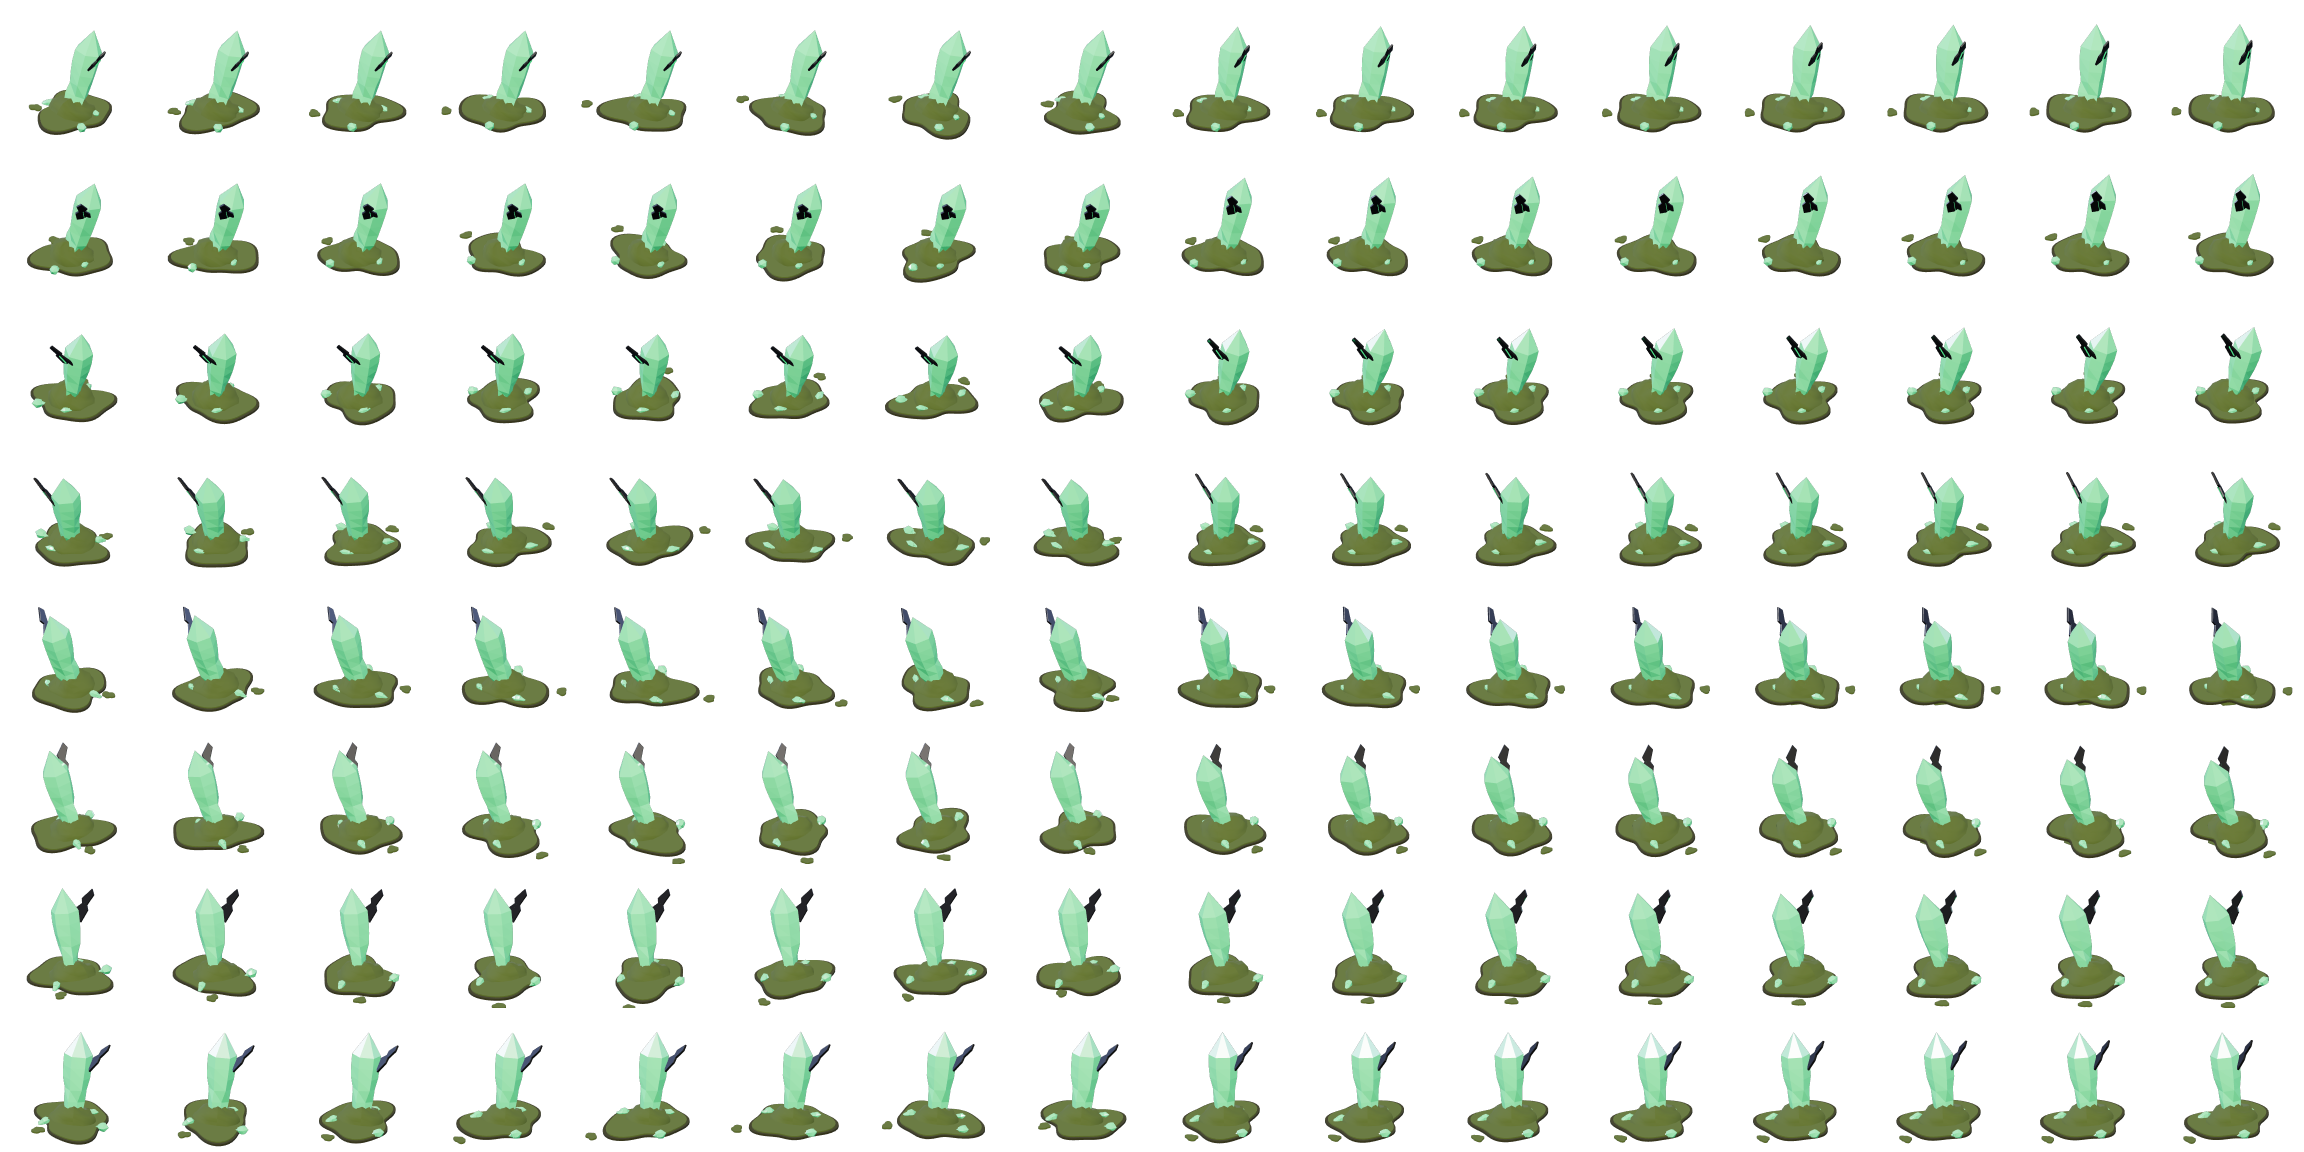
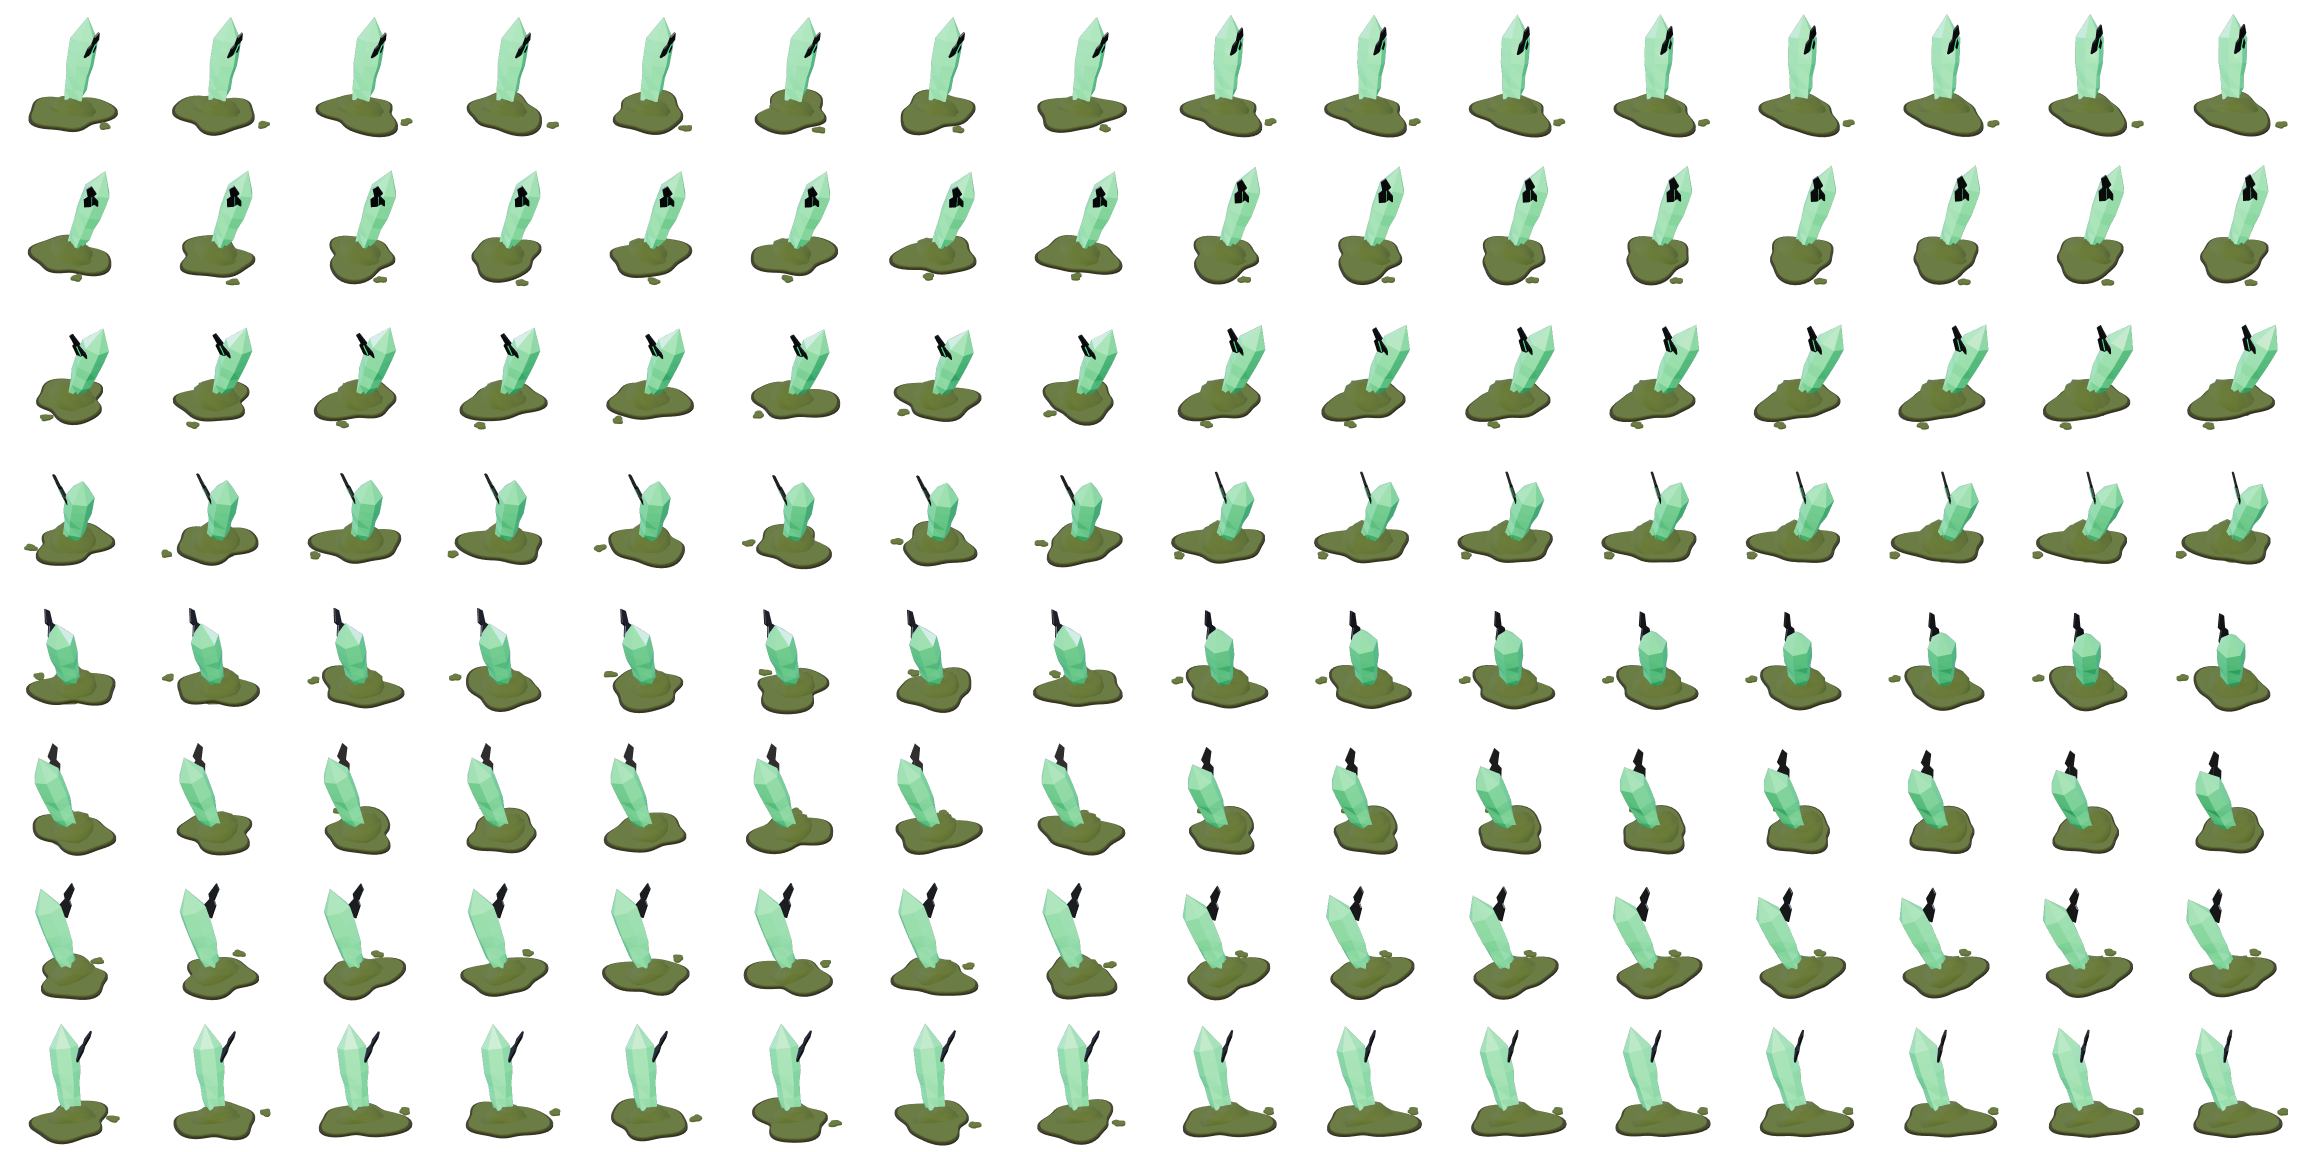
Rotshard: use design No. 101 (the gentler lean) instead of No. 103
Re-baked the sheet from FORMS2[101] (pool radius 0.8 for the sprite's footprint); core anchor updated.
Build 2026-10-14n.

Claude-Session: https://claude.ai/code/session_0115DZYYhipQqSk6LHvQcEfz

diff --git a/game.html b/game.html
@@ -1363,12 +1363,12 @@ function _showError(msg) {
 // Script files that failed to download. A missing file raises no error of its
 // own — only the "Can't find variable" from whatever needed it — so the load
 // failure is caught here, on its way down (capture phase).
-// THE BUILD. Every script URL below carries ?v=2026-10-14m, so a new deploy
+// THE BUILD. Every script URL below carries ?v=2026-10-14n, so a new deploy
 // fetches a matching set: REPORTED, an iPad ran the new js/indexart.js against
 // an old cached js/config.js ("Attempted to assign to readonly property").
 // Change this, the ?v= on every script tag and BUILD_VERSION in js/config.js
 // together (tests/boot.js checks they agree).
-window.__PAGE_BUILD = "2026-10-14m";
+window.__PAGE_BUILD = "2026-10-14n";
 window.__bootFailed = [];
 window.addEventListener("error", function (e) {
     var t = e && e.target;
@@ -1404,53 +1404,53 @@ if (!CanvasRenderingContext2D.prototype.roundRect) {
 </script>
 
 <!-- Game scripts — load order matters (globals first, logic last) -->
-<script src="js/config.js?v=2026-10-14m"></script>
-<script src="js/icons.js?v=2026-10-14m"></script>
-<script src="js/rng.js?v=2026-10-14m"></script>
-<script src="js/traits.js?v=2026-10-14m"></script>
-<script src="js/elements.js?v=2026-10-14m"></script>
-<script src="js/combat.js?v=2026-10-14m"></script>
-<script src="js/species.js?v=2026-10-14m"></script>
-<script src="js/levels.js?v=2026-10-14m"></script>
-<script src="js/predator_randomizer.js?v=2026-10-14m"></script>
-<script src="js/mass.js?v=2026-10-14m"></script>
-<script src="js/infest.js?v=2026-10-14m"></script>
-<script src="js/power.js?v=2026-10-14m"></script>
-<script src="js/save.js?v=2026-10-14m"></script>
-<script src="js/camp.js?v=2026-10-14m"></script>
-<script src="js/wavedata.js?v=2026-10-14m"></script>
-<script src="js/helpers.js?v=2026-10-14m"></script>
-<script src="js/predator.js?v=2026-10-14m"></script>
-<script src="js/abilities.js?v=2026-10-14m"></script>
-<script src="js/world.js?v=2026-10-14m"></script>
-<script src="js/commands.js?v=2026-10-14m"></script>
-<script src="js/npc.js?v=2026-10-14m"></script>
-<script src="js/codex.js?v=2026-10-14m"></script>
-<script src="js/draw.js?v=2026-10-14m"></script>
-<script src="js/beetle3d.js?v=2026-10-14m"></script>
-<script src="js/bugs3d.js?v=2026-10-14m"></script>
-<script src="js/ui.js?v=2026-10-14m"></script>
-<script src="js/waves.js?v=2026-10-14m"></script>
-<script src="js/drops.js?v=2026-10-14m"></script>
-<script src="js/clone.js?v=2026-10-14m"></script>
-<script src="js/clonework.js?v=2026-10-14m"></script>
-<script src="js/broods.js?v=2026-10-14m"></script>
-<script src="js/raids.js?v=2026-10-14m"></script>
-<script src="js/ultra.js?v=2026-10-14m"></script>
-<script src="js/formations.js?v=2026-10-14m"></script>
-<script src="js/breakout.js?v=2026-10-14m"></script>
-<script src="js/nightraids.js?v=2026-10-14m"></script>
-<script src="js/bonds.js?v=2026-10-14m"></script>
-<script src="js/autoplay.js?v=2026-10-14m"></script>
-<script src="js/indexart.js?v=2026-10-14m"></script>
-<script src="js/modules.js?v=2026-10-14m"></script>
-<script src="js/shieldcells.js?v=2026-10-14m"></script>
-<script src="js/evolution.js?v=2026-10-14m"></script>
-<script src="js/buildmenu.js?v=2026-10-14m"></script>
-<script src="js/input.js?v=2026-10-14m"></script>
-<script src="js/game.js?v=2026-10-14m"></script>
-<script src="js/tutorial.js?v=2026-10-14m"></script>
-<script src="js/dev.js?v=2026-10-14m"></script>
+<script src="js/config.js?v=2026-10-14n"></script>
+<script src="js/icons.js?v=2026-10-14n"></script>
+<script src="js/rng.js?v=2026-10-14n"></script>
+<script src="js/traits.js?v=2026-10-14n"></script>
+<script src="js/elements.js?v=2026-10-14n"></script>
+<script src="js/combat.js?v=2026-10-14n"></script>
+<script src="js/species.js?v=2026-10-14n"></script>
+<script src="js/levels.js?v=2026-10-14n"></script>
+<script src="js/predator_randomizer.js?v=2026-10-14n"></script>
+<script src="js/mass.js?v=2026-10-14n"></script>
+<script src="js/infest.js?v=2026-10-14n"></script>
+<script src="js/power.js?v=2026-10-14n"></script>
+<script src="js/save.js?v=2026-10-14n"></script>
+<script src="js/camp.js?v=2026-10-14n"></script>
+<script src="js/wavedata.js?v=2026-10-14n"></script>
+<script src="js/helpers.js?v=2026-10-14n"></script>
+<script src="js/predator.js?v=2026-10-14n"></script>
+<script src="js/abilities.js?v=2026-10-14n"></script>
+<script src="js/world.js?v=2026-10-14n"></script>
+<script src="js/commands.js?v=2026-10-14n"></script>
+<script src="js/npc.js?v=2026-10-14n"></script>
+<script src="js/codex.js?v=2026-10-14n"></script>
+<script src="js/draw.js?v=2026-10-14n"></script>
+<script src="js/beetle3d.js?v=2026-10-14n"></script>
+<script src="js/bugs3d.js?v=2026-10-14n"></script>
+<script src="js/ui.js?v=2026-10-14n"></script>
+<script src="js/waves.js?v=2026-10-14n"></script>
+<script src="js/drops.js?v=2026-10-14n"></script>
+<script src="js/clone.js?v=2026-10-14n"></script>
+<script src="js/clonework.js?v=2026-10-14n"></script>
+<script src="js/broods.js?v=2026-10-14n"></script>
+<script src="js/raids.js?v=2026-10-14n"></script>
+<script src="js/ultra.js?v=2026-10-14n"></script>
+<script src="js/formations.js?v=2026-10-14n"></script>
+<script src="js/breakout.js?v=2026-10-14n"></script>
+<script src="js/nightraids.js?v=2026-10-14n"></script>
+<script src="js/bonds.js?v=2026-10-14n"></script>
+<script src="js/autoplay.js?v=2026-10-14n"></script>
+<script src="js/indexart.js?v=2026-10-14n"></script>
+<script src="js/modules.js?v=2026-10-14n"></script>
+<script src="js/shieldcells.js?v=2026-10-14n"></script>
+<script src="js/evolution.js?v=2026-10-14n"></script>
+<script src="js/buildmenu.js?v=2026-10-14n"></script>
+<script src="js/input.js?v=2026-10-14n"></script>
+<script src="js/game.js?v=2026-10-14n"></script>
+<script src="js/tutorial.js?v=2026-10-14n"></script>
+<script src="js/dev.js?v=2026-10-14n"></script>
 <script>
 // ── BOOT CHECK ────────────────────────────────────────────
 // Every file above must have arrived and run before init.js starts the game.
@@ -1503,7 +1503,7 @@ if (!CanvasRenderingContext2D.prototype.roundRect) {
     document.body.appendChild(d);
 })();
 </script>
-<script src="js/init.js?v=2026-10-14m"></script>
+<script src="js/init.js?v=2026-10-14n"></script>
 
 </body>
 </html>

diff --git a/js/evolution.js b/js/evolution.js
@@ -49,7 +49,7 @@
 //          SIX rounds at once from the six crystals of its ring, one at each of
 //          the nearest enemies in turn (all six into one if it is alone), each
 //          HALO_MULT × its power and setting its target burning.
-//          ROTSHARD (the TOXIC SNIPER, design No. 103, the crystal half eaten by its pool),
+//          ROTSHARD (the TOXIC SNIPER, design No. 101, the crystal half eaten by its pool),
 //          CORRODE SHOT: with an enemy within ROT_RANGE, every ROT_EVERY frames it
 //          fires one long shot (ROT_MULT × its power) that eats the target's armour
 //          (it takes 1 / ROT_SHRED × damage for ROT_SHRED_FRAMES) and splashes
@@ -90,7 +90,7 @@ const EVOLUTIONS = {
               cell: 144, anchor: [72, 114.2], core: [72, 53.7], noGlow: true, color: "#ff5a1f" },
     // The TOXIC SNIPER: a crystal tilted in a pool that is eating it. The pool shifts, so its sheet carries its own light.
     rotshard:{ id: "rotshard", name: "ROTSHARD", element: "toxic", role: "sniper", move: "CORRODE SHOT", sheet: "img/evo/rotshard.png",
-              cell: 144, anchor: [72, 114.2], core: [72, 70.9], noGlow: true, color: "#66ff66" },
+              cell: 144, anchor: [72, 114.2], core: [72, 68.3], noGlow: true, color: "#66ff66" },
     // The electric WORKER (the neutraliser): a worker is a duty, so it comes from an electric follower on worker duty.
     pod:    { id: "pod",    name: "DYNAMO POD",   element: "electric", duty: "worker",  move: "RAPID DISCHARGE", sheet: "img/evo/pod.png",
               cell: 144, anchor: [72, 114.2], core: [72, 58], noGlow: true, color: "#ffee33" },

diff --git a/design/evolutions/forms5.js b/design/evolutions/forms5.js
@@ -168,6 +168,6 @@ function _eatenDesign(opts) {
   return { g, core: opts.h * 0.7 + 0.2, update(t, act) { pool.shift(t); piv.rotation.z = opts.tz + 0.02 * Math.sin(1.6 * t); piv.rotation.x = opts.tx - 0.22 * (act || 0); mound.scale.setScalar(1 + 0.04 * Math.sin(1.6 * t + 1) + 0.12 * (act || 0));   // when it fires it recoils and the pool surges
     bits.forEach((c, i) => { const a = i * 2.4 + 0.6 + 0.4 * Math.sin(1.6 * t + i), d = (0.7 + 0.15 * i) * R; c.position.set(Math.sin(a) * d, 0.1, Math.cos(a) * d); c.rotation.set(1.1 + i * 0.3, a, 0.5); }); } };
 }
-fx(101, "Eaten crystal, leaning.", () => _eatenDesign({ seed: 2.0, h: 1.5, up: 0.25, reach: 0.5, tx: -0.12, tz: -0.35 }));
+fx(101, "Eaten crystal, leaning.", () => _eatenDesign({ seed: 2.0, h: 1.5, up: 0.25, reach: 0.5, tx: -0.12, tz: -0.35, R: 0.8 }));
 fx(102, "Eaten crystal, toppling.", () => _eatenDesign({ seed: 1.1, h: 1.6, up: 0.1, reach: 0.9, tx: -0.25, tz: -0.65 }));
 fx(103, "Eaten crystal, shedding bits.", () => _eatenDesign({ seed: 3.3, h: 1.4, up: 0.2, reach: 0.7, tx: 0.1, tz: -0.25, bits: 3, R: 0.8 }));

diff --git a/tests/evolution.js b/tests/evolution.js
@@ -73,7 +73,7 @@ function same(a, b, m) { if (a !== b) throw new Error(`${m}: expected ${JSON.str
         mk('fire', 'brawler', 20); run(lvlUp); same(run('__f.evolved'), 'bloom', 'the fire brawler');
         mk('fire', 'sniper', 20); run('__f.duty = "worker";'); run(lvlUp); same(run('__f.evolved || null'), null, 'a fire worker waits (no worker form for it)');
     });
-    check('THE ASK: a TOXIC SNIPER becomes the ROTSHARD (design No. 103, the crystal eaten by its pool); other toxic followers wait', () => {
+    check('THE ASK: a TOXIC SNIPER becomes the ROTSHARD (design No. 101, the crystal eaten by its pool); other toxic followers wait', () => {
         mk('toxic', 'sniper', 20); run(lvlUp);
         const r = run('({ evo: __f.evolved, tag: unitTypeLabel(__f), role: __f.role })');
         same(r.evo, 'rotshard', 'its form'); same(r.tag, 'ROTSHARD', 'its tag'); same(r.role, 'sniper', 'its role');

diff --git a/design/evolutions/bake.js b/design/evolutions/bake.js
@@ -23,8 +23,8 @@ const JOBS = [
   { id: 'manta',  form: 68, color: '#ffee33', idleAct: 0.2, action: [0.55, 1.0] },
   { id: 'pod',    form: 71, color: '#ffee33', idleAct: 0.2, action: [0.55, 1.0] },
   { id: 'halo',   form: 90, color: '#ff3300', idleAct: 0.1, action: [0.6, 1.0] },
-  // No. 103, the toxic sniper: the pool's shift loops over the idle period; its action is the recoil of a shot.
-  { id: 'rotshard', form: 103, color: '#14c040', idleAct: 0, action: [0.5, 1.0] },
+  // No. 101, the toxic sniper: the pool's shift loops over the idle period; its action is the recoil of a shot.
+  { id: 'rotshard', form: 101, color: '#14c040', idleAct: 0, action: [0.5, 1.0] },
 ].filter(j => !process.argv[4] || process.argv[4].split(',').includes(j.id));
 const CELL = 144, HALF = 1.7, LOOK_Y = 1.15;
 

diff --git a/js/config.js b/js/config.js
@@ -4,7 +4,7 @@
 
 // The build this file belongs to — the same as window.__PAGE_BUILD and the
 // ?v= on every script tag in game.html (the boot check compares them).
-const BUILD_VERSION = "2026-10-14m";
+const BUILD_VERSION = "2026-10-14n";
 
 // ── GLOBAL ERROR DISPLAY ──────────────────────────────────
 // Lives in game.html (_showError), before any file loads. This file used to
